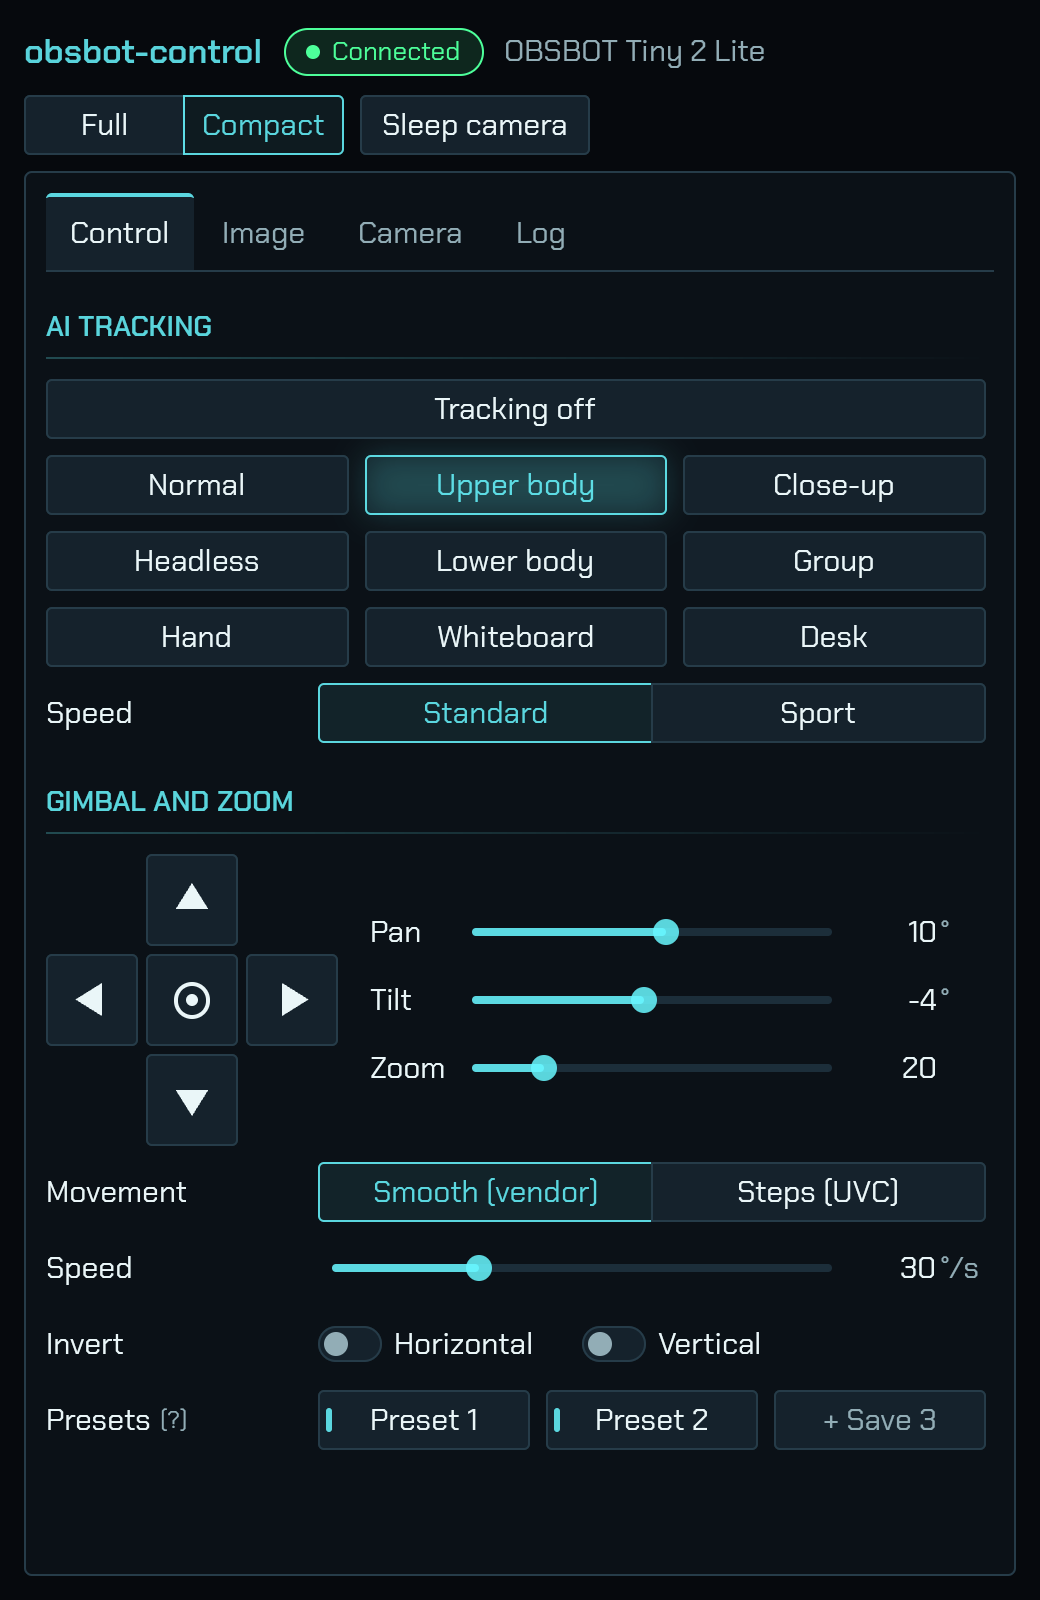
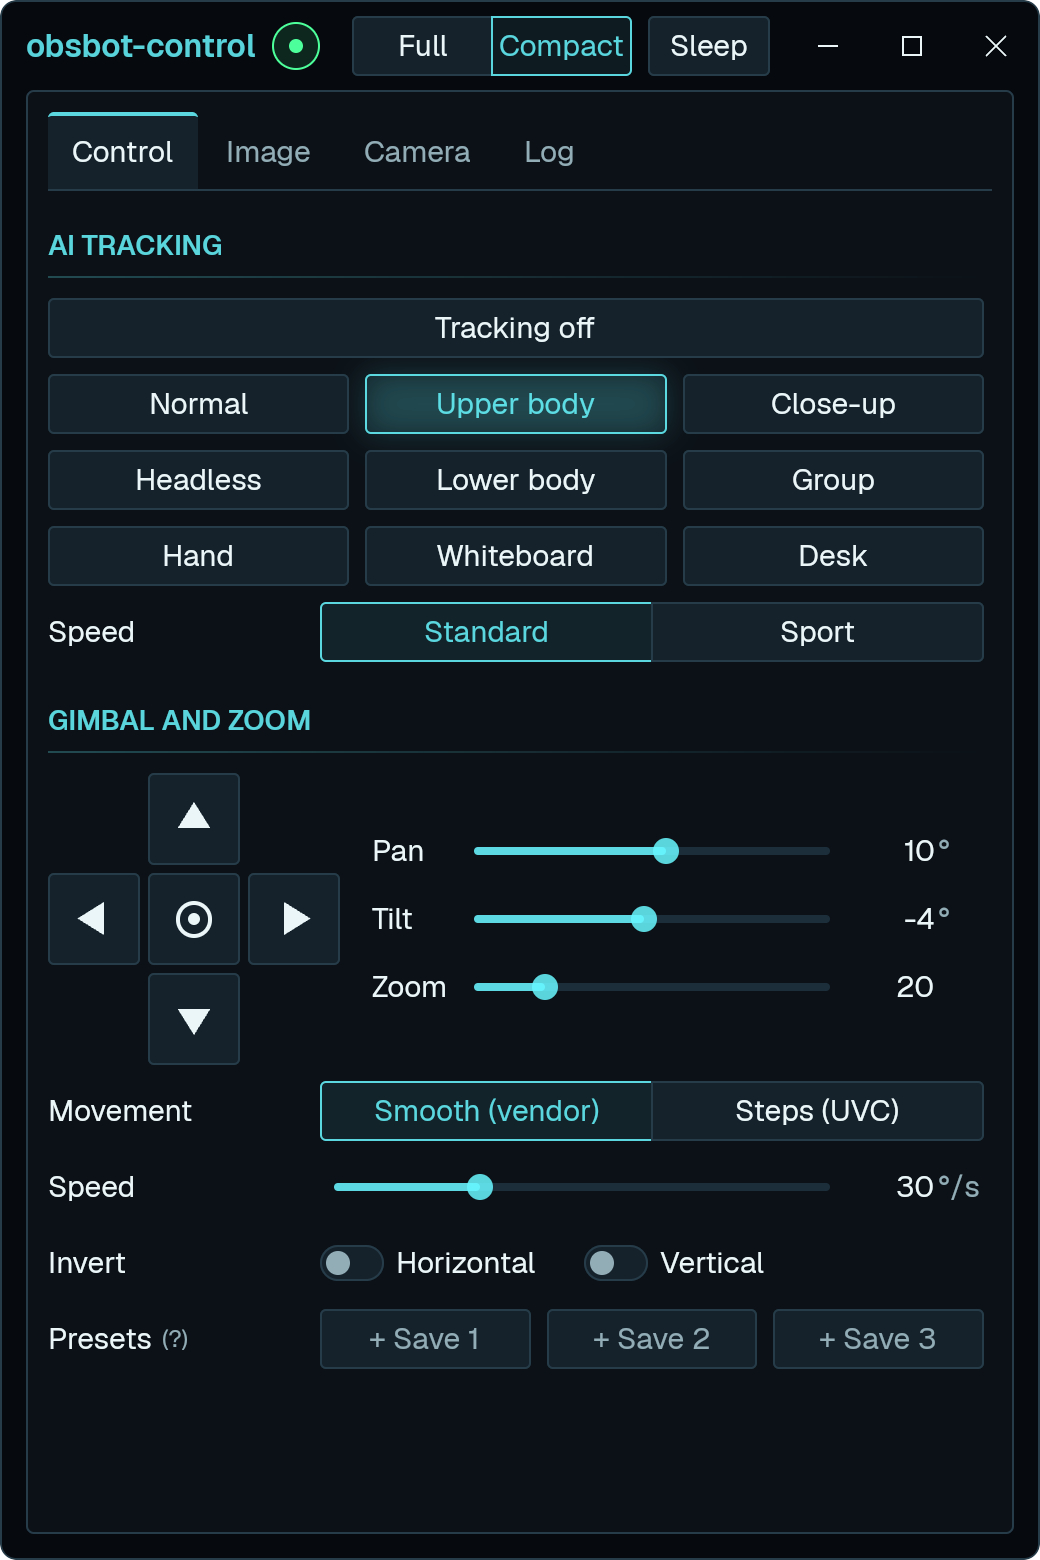
Tidy the README and refresh the screenshots
The README now opens with the icon, a short pitch and the main screenshot,
puts the unofficial notice in one short line, captions the gallery and
folds the build packages away. The screenshots show the new title bar and
font, and the testing checklist covers the title bar and the animated
view switch on Windows and Linux.

diff --git a/README.md b/README.md
@@ -1,127 +1,133 @@
+<div align="center">
+
+<img src="res/obsbot-control.png" width="96" alt="">
+
 # obsbot-control
 
+Control your **OBSBOT Tiny 2 Lite** webcam on Windows and Linux,<br>
+without OBSBOT Center. One file, fully offline, free and open source.
+
+[**Download**](../../releases/latest) · [Features](#features) · [Run it](#download-and-run) · [Build it](#building-from-source)
+
+<img src="docs/screenshots/full-view.png" alt="obsbot-control in full view: live preview on the left, AI tracking, gimbal and zoom controls on the right">
+
+</div>
+
 > [!IMPORTANT]
-> **Unofficial software.** This is an independent community project. It is not made by,
-> affiliated with, endorsed by or supported by OBSBOT. Please don't contact OBSBOT support
-> about this app; report problems here on GitHub instead. For official software, use
-> OBSBOT Center.
+> **Unofficial.** This is an independent community project, not made, endorsed or supported by OBSBOT.
+> Report problems here on GitHub, not to OBSBOT support.
 
-A small, unofficial, free and open-source app for **Windows and Linux** that controls an
-**OBSBOT Tiny 2 Lite** webcam (and probably the Tiny 2), without the official OBSBOT Center software.
+## Why
 
-![The app in full view: live preview on the left, AI tracking, gimbal and zoom controls on the right](docs/screenshots/full-view.png)
-
-- **One file.** A single `.exe` on Windows, a single `.AppImage` on Linux. No installer and no admin rights.
-- **Private.** Works entirely offline: no account, no telemetry, no internet access, no update checks.
-  (The interface library includes networking code for other uses; this app never calls it.)
-- **Dark mode**, written in New Zealand English.
-- **No proprietary code.** It talks to the camera with standard USB video (UVC) controls plus
-  the camera's vendor commands, as documented by other open-source projects.
-- Written in Rust, with the [GPUI](https://www.gpui.rs/) interface library.
-
-Inspired by [obsbot4linux](https://github.com/vampyren/obsbot4linux).
+- **One file.** A single `.exe` on Windows or `.AppImage` on Linux. No installer, no admin rights.
+- **Private.** No account, telemetry, update checks or internet access.
+- **No proprietary code.** It talks to the camera with standard USB video (UVC) controls plus the
+  camera's own commands, as documented by other open-source projects.
+- **Stays out of the way.** When a call app takes the camera it switches to a compact view with just
+  the controls.
 
 ## Features
 
 | Area | Controls |
 |---|---|
-| AI tracking | Off, Normal, Upper body, Close-up, Headless, Lower body, Group, Hand, Whiteboard, Desk; Standard/Sport speed |
-| Gimbal | Hold-to-move arrows (smooth or stepped, with invert switches), Centre, pan/tilt sliders, 3 one-click presets |
+| AI tracking | Off, Normal, Upper body, Close-up, Headless, Lower body, Group, Hand, Whiteboard, Desk; Standard or Sport speed |
+| Gimbal | Hold-to-move arrows (smooth or stepped, with invert switches), Centre, pan and tilt sliders, 3 presets |
 | Zoom | Zoom slider |
-| Picture | Brightness, contrast, saturation, sharpness, hue, gamma, white balance, exposure, gain, backlight, focus (with Auto where supported) |
-| Camera | HDR, field of view (wide/medium/narrow), anti-flicker (50 Hz default for NZ), sleep/wake |
-| Other | Live preview with resolution, pixel format and frame rate pickers (can be turned off), compact view, activity log, *Copy diagnostics*, optional Developer tab for protocol testing, demo mode |
+| Picture | Brightness, contrast, saturation, sharpness, hue, gamma, white balance, exposure, gain, backlight and focus, with Auto where supported |
+| Camera | HDR, field of view, anti-flicker (50 Hz by default), sleep and wake |
+| Other | Live preview with resolution, format and frame rate pickers, compact view, activity log, *Copy diagnostics*, demo mode |
 
 <table>
   <tr>
-    <td><img src="docs/screenshots/image-tab.png" alt="The Image tab: picture, colour and focus sliders with Auto switches"></td>
-    <td><img src="docs/screenshots/camera-tab.png" alt="The Camera tab: HDR, field of view, anti-flicker and advanced options"></td>
+    <td width="50%"><img src="docs/screenshots/image-tab.png" alt="The Image tab: picture, colour and focus sliders with Auto switches"></td>
+    <td width="50%"><img src="docs/screenshots/camera-tab.png" alt="The Camera tab: HDR, field of view, anti-flicker and advanced options"></td>
   </tr>
   <tr>
-    <td><img src="docs/screenshots/compact-view.png" alt="Compact view: the controls without the preview, in a narrow window"></td>
-    <td><img src="docs/screenshots/log-tab.png" alt="The Log tab: the activity log and Copy diagnostics"></td>
+    <td align="center"><sub>Image tab</sub></td>
+    <td align="center"><sub>Camera tab</sub></td>
+  </tr>
+  <tr>
+    <td width="50%" align="center"><img src="docs/screenshots/compact-view.png" width="70%" alt="Compact view: the controls without the preview, in a narrow window"></td>
+    <td width="50%"><img src="docs/screenshots/log-tab.png" alt="The Log tab: the activity log and Copy diagnostics"></td>
+  </tr>
+  <tr>
+    <td align="center"><sub>Compact view</sub></td>
+    <td align="center"><sub>Log tab</sub></td>
   </tr>
 </table>
 
-*The screenshots use the built-in demo camera (`--demo`), so the "video" is a drawn scene.*
+<sub>Screenshots use the built-in demo camera (`--demo`), so the video is a drawn scene.</sub>
 
 ## Download and run
 
-Get the latest version from [Releases](../../releases). Plug in the camera: the app connects by itself.
+Get the latest version from [Releases](../../releases/latest) and plug in the camera. The app connects by itself.
 
 ### Windows
 
-1. Download `obsbot-control.exe` and run it. Windows SmartScreen may warn because the exe isn't
-   code-signed; choose *More info → Run anyway*.
-2. Requirements: Windows 10 or 11, 64-bit. Windows "N" editions need the free *Media Feature Pack*.
+Download `obsbot-control.exe` and run it. SmartScreen may warn because the exe isn't code-signed:
+choose *More info*, then *Run anyway*.
 
-Settings and the log live in `%APPDATA%\obsbot-control\`. Delete that folder to reset. Settings from the
-older `osbot-oss-windows` app are copied across the first time.
+- Needs Windows 10 or 11, 64-bit. Windows "N" editions also need the free *Media Feature Pack*.
+- Settings and the log are in `%APPDATA%\obsbot-control\`. Delete that folder to reset.
 
 ### Linux
 
-1. Download `obsbot-control-x86_64.AppImage`.
-2. Make it executable and run it:
+```sh
+chmod +x obsbot-control-x86_64.AppImage
+./obsbot-control-x86_64.AppImage
+```
 
-   ```sh
-   chmod +x obsbot-control-x86_64.AppImage
-   ./obsbot-control-x86_64.AppImage
-   ```
+Works on Wayland and X11 (Fedora, Ubuntu, Arch and others) with any current Vulkan graphics driver.
 
-It works on Wayland and X11 desktops, including Fedora, Ubuntu and Arch. It needs a graphics driver with
-Vulkan support, which current Intel, AMD and NVIDIA drivers all have.
-
-- If it won't start and mentions FUSE, either install FUSE 3 (`sudo dnf install fuse3` on Fedora,
-  `sudo apt install fuse3` on Ubuntu) or run it with `--appimage-extract-and-run`.
-- Logged-in users can normally use the camera straight away. If the log says permission was denied for
-  `/dev/video…`, add yourself to the `video` group (`sudo usermod -aG video $USER`) and log in again.
-- Settings and the log live in `~/.config/obsbot-control/`. Delete that folder to reset.
+- **Mentions FUSE?** Install FUSE 3 (`sudo dnf install fuse3` or `sudo apt install fuse3`), or run it
+  with `--appimage-extract-and-run`.
+- **Permission denied for `/dev/video…`?** Run `sudo usermod -aG video $USER`, then log out and in again.
+- Settings and the log are in `~/.config/obsbot-control/`. Delete that folder to reset.
 
 ### Tips
 
-- Only one app can use the camera's **video** at a time. If Teams, Zoom, Discord or another app is
-  already using the camera, the app opens in **compact view**: the same controls without the preview,
-  in a narrower window. It switches back when the other app lets go of the camera, and the *Full | Compact*
-  switch at the top changes it by hand. While you're using another window the preview pauses, so you can
-  turn on your camera in a call with this app still open. The controls keep working either way.
-- Want to look around first? Run it with `--demo` to use a simulated camera.
+- Only one app can use the camera's video at a time. If Teams, Zoom or Discord already has it, the app
+  opens in **compact view** and switches back when the call ends. *Full* and *Compact* at the top switch by hand.
+- While another window is active the preview pauses, so you can start a call with this app still open.
+- Run it with `--demo` to look around without a camera.
 
 ## Status
 
-Version 1.0 is a complete rewrite in Rust that adds Linux support. The Windows camera code is a careful port of
-version 0.3, which was tested on a real Tiny 2 Lite (AI tracking, gimbal, presets, HDR, field of view, sleep
-and the preview pickers all worked). The Linux version hasn't been tested on a real camera yet, and the
-Tiny 2 hasn't been tested at all. If something doesn't work on your camera, see
-[docs/TESTING.md](docs/TESTING.md) and [docs/PROTOCOL.md](docs/PROTOCOL.md), and use *Log → Copy diagnostics*
-when reporting it.
+Version 1.0 is a rewrite in Rust that adds Linux. The Windows camera code is a careful port of version 0.3,
+which was tested on a real Tiny 2 Lite. The Linux version and the Tiny 2 haven't been tested on real cameras
+yet. If something doesn't work, see [docs/TESTING.md](docs/TESTING.md) and
+[docs/PROTOCOL.md](docs/PROTOCOL.md), and include *Log → Copy diagnostics* in your report.
 
 ## Building from source
 
-Install [Rust](https://rustup.rs/) (1.89 or later; `rust-toolchain.toml` picks the tested version), then the system libraries:
+Install [Rust](https://rustup.rs/) 1.89 or later (`rust-toolchain.toml` picks the tested version), then the
+system libraries:
+
+<details>
+<summary>Fedora, Ubuntu and Windows packages</summary>
 
 - **Fedora:** `sudo dnf install gcc clang pkgconf-pkg-config libxkbcommon-devel libxkbcommon-x11-devel wayland-devel vulkan-loader-devel libxcb-devel freetype-devel fontconfig-devel`
-- **Ubuntu/Debian:** `sudo apt install build-essential clang pkg-config libxkbcommon-dev libxkbcommon-x11-dev libwayland-dev libvulkan-dev libx11-xcb-dev libxcb1-dev libfreetype-dev libfontconfig-dev`
-- **Windows:** Visual Studio 2022 or later (or the Build Tools) with the *Desktop development with C++* workload.
+- **Ubuntu or Debian:** `sudo apt install build-essential clang pkg-config libxkbcommon-dev libxkbcommon-x11-dev libwayland-dev libvulkan-dev libx11-xcb-dev libxcb1-dev libfreetype-dev libfontconfig-dev`
+- **Windows:** Visual Studio 2022 or later (or the Build Tools) with *Desktop development with C++*.
+
+</details>
 
 ```sh
 cargo build --release
-./target/release/obsbot-control            # or target\release\obsbot-control.exe
 ./target/release/obsbot-control --demo     # with the simulated camera
-cargo test                                 # protocol, safety and interface-logic tests
+cargo test
 packaging/linux/build-appimage.sh          # Linux: makes dist/obsbot-control-x86_64.AppImage
 ```
 
-The OBSBOT SDK is **not** needed and is **not** part of this repository.
+The OBSBOT SDK is not needed and is not part of this repository. Built with [GPUI](https://www.gpui.rs/)
+and the [Geist](https://vercel.com/font) typeface. Inspired by [obsbot4linux](https://github.com/vampyren/obsbot4linux).
 
 ## Disclaimer
 
-- "OBSBOT" and "Tiny" are trademarks of their respective owner. They're used here only to
-  say which camera this app works with.
-- This app is provided as is, with no warranty (see the MIT licence). Use it at your own risk.
-- It only changes camera settings. It never updates or modifies the camera's firmware.
-  If the camera ends up in an odd state, unplug it and plug it back in, or reset it in
-  OBSBOT Center.
+"OBSBOT" and "Tiny" are trademarks of their owner, used here only to say which camera this app works with.
+The app only changes camera settings and never touches the firmware. If the camera ends up in an odd state,
+unplug it and plug it back in. It's provided as is, with no warranty (see the licence).
 
 ## Licence
 
-[MIT](LICENSE). Third-party components and credits: [THIRD_PARTY_NOTICES.md](THIRD_PARTY_NOTICES.md).
+[MIT](LICENSE). Third-party components: [THIRD_PARTY_NOTICES.md](THIRD_PARTY_NOTICES.md).

diff --git a/docs/TESTING.md b/docs/TESTING.md
@@ -43,6 +43,17 @@ Some checks use the **Developer** tab. Turn it on with *Camera → Advanced → 
 - [ ] With two cameras connected, switch cameras during preview; only the selected camera appears.
 - [ ] Resize, minimise and restore the window while previewing; the image redraws normally.
 
+#### Title bar
+- [ ] There is one title bar: the app's own header, with minimise, maximise and close at the right. Windows
+      draws no separate grey bar above it.
+- [ ] Drag the window by the empty part of the header and by the "obsbot-control" text. Clicking *Full*,
+      *Compact* or *Sleep camera* never moves the window.
+- [ ] Double-click the empty header: it maximises; again: it restores. The maximise button switches to the
+      restore icon.
+- [ ] Hover the maximise button on Windows 11: the Snap Layouts menu appears. Win+arrow keys snap the window.
+- [ ] Close turns red on hover and closes the app (settings are saved; check the size on the next start).
+- [ ] Maximised, nothing is cut off at the top of the screen.
+
 #### Compact view and pausing the preview
 - [ ] With Discord, Zoom or Teams already using the camera, open the app: it opens narrow, without the
       preview, with the header switch on *Compact* and "Camera in use by ..." under the header naming that app.
@@ -54,14 +65,16 @@ Some checks use the **Developer** tab. Turn it on with *Camera → Advanced → 
 - [ ] Click back into the app with no call running: the blurred picture shows "Starting preview..." and the
       live picture replaces it within a second or two.
 - [ ] Turn off *Camera → Pause preview*: the preview keeps running while another window is active.
-- [ ] Switch the header to *Compact* by hand: the preview stops and the window narrows. Switch back to *Full*:
-      it widens to its earlier size and the preview restarts.
+- [ ] Switch the header to *Compact* by hand: the window narrows smoothly while the preview slides under the
+      controls and fades out (about a quarter of a second). Switch back to *Full*: it widens to its earlier size
+      as the preview fades back in. No flicker or jumping.
 - [ ] During a call, switch back to *Full*: it stays in full view when the call ends.
 - [ ] Maximise the window, then start a call: it un-maximises and goes compact.
 - [ ] Move the window near the right edge of the screen in compact view, then go back to full view: the
       window stays on screen.
-- [ ] With the camera connected, the header in compact view fits on one line (the model name may be
-      hidden). With two cameras, the camera picker and buttons move to their own line.
+- [ ] With the camera connected, the header in compact view fits on one line: the status shows as a dot
+      (hover for the text) and the sleep button says *Sleep*. With two cameras, the camera picker moves to its
+      own line.
 - [ ] Turn off *Camera → Auto compact*: starting and ending a call no longer changes the view.
 - [ ] Close the app while compact, then open it with no call running: it opens at the normal full width.
 
@@ -146,6 +159,14 @@ Tick each box or note what happened. Note your distribution and desktop (Wayland
       names that app. Also try Firefox, which may show "PipeWire" instead.
 - [ ] Unplug the camera during the preview: "The camera was disconnected." appears quickly and nothing
       freezes. Plug it back in: it reconnects.
+
+#### Title bar
+- [ ] On GNOME and KDE (Wayland and X11), the app draws its own title bar with minimise, maximise and close,
+      rounded corners and a soft shadow. If the desktop draws its own frame instead, the app's buttons are
+      hidden and the desktop's ones work.
+- [ ] Dragging the empty header moves the window; double-click maximises; right-click opens the window menu.
+- [ ] Resize from every edge and corner. The cursor changes near the edges.
+- [ ] Tiled to half the screen or maximised, the shadow and rounded corners go away on the tiled sides.
 
 #### Other
 - [ ] Starting a second copy of the app is refused.
